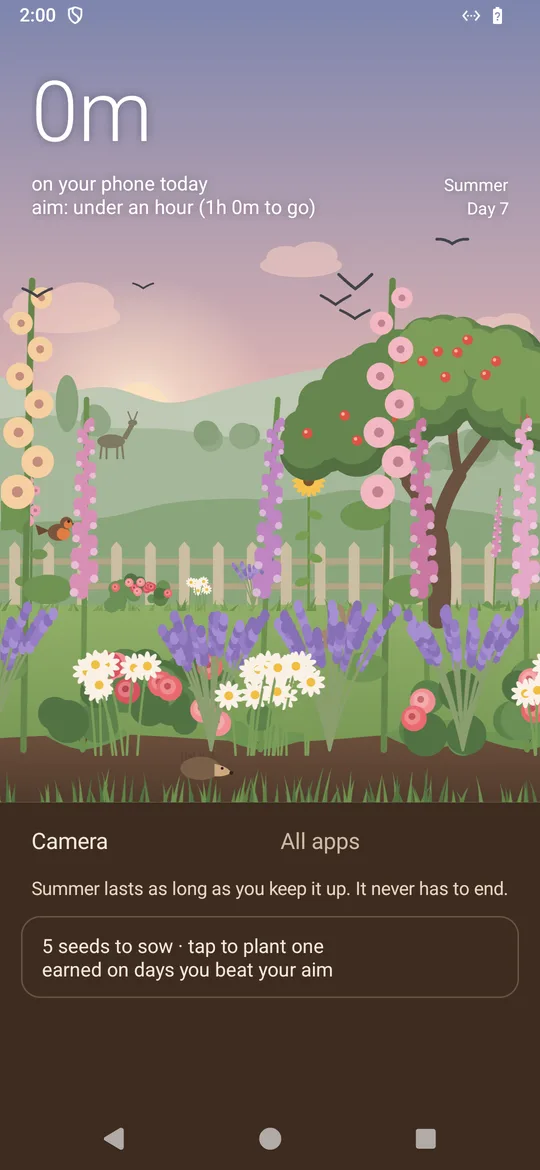
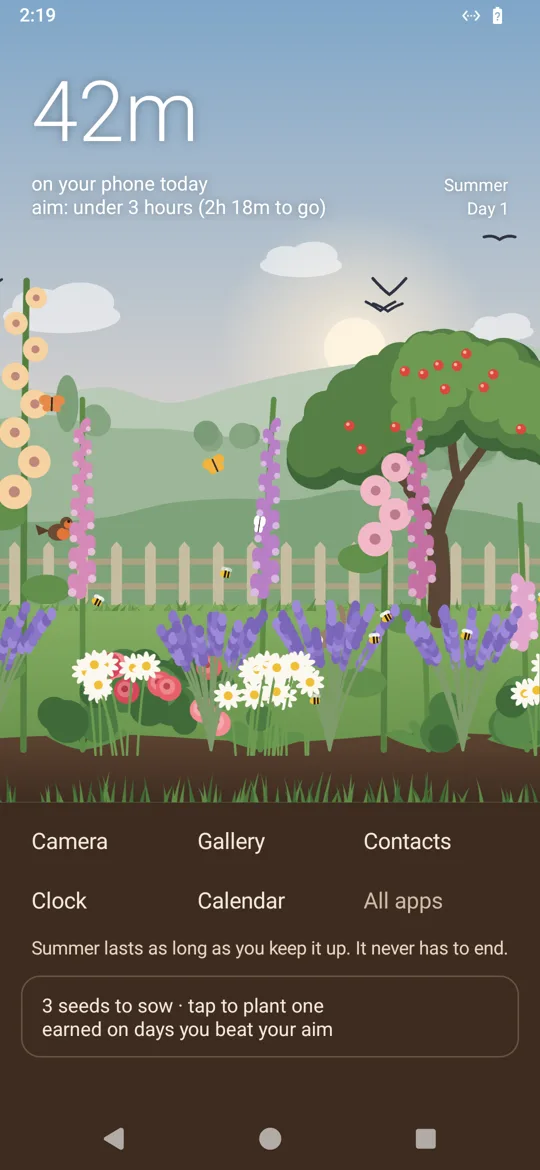
Glance pages: screenshots from the Play build, feature graphic for link previews
Claude-Session: https://claude.ai/code/session_013ninAo2S2Urgsh6HyVdxMR

diff --git a/glance/index.html b/glance/index.html
@@ -7,7 +7,7 @@
 <meta name="description" content="An Android home screen that puts today's screen time front and centre, over a garden that grows when you're on your phone less.">
 <meta property="og:title" content="Glance: Screen Time Garden">
 <meta property="og:description" content="An Android home screen that puts today's screen time front and centre, over a garden that grows when you're on your phone less.">
-<meta property="og:image" content="https://adam-clements.com/glance/screen-1.webp">
+<meta property="og:image" content="https://adam-clements.com/glance/feature.png">
 <link rel="icon" href="icon.png">
 <style>
   :root { --soil: #3e2c21; --soil-dark: #2c1f17; --leaf: #3f7d3a; --ink: #23301f; --muted: #5d6b58; --paper: #f6f8f2; --line: #dde5d6; }
@@ -44,7 +44,7 @@
 </header>
 <main>
   <div class="shots">
-    <img src="screen-1.webp" alt="The home screen: today's time over a garden in full summer at dawn" width="540" height="1170">
+    <img src="screen-1.webp" alt="The home screen: today's time over a garden in full summer" width="540" height="1170">
     <img src="screen-2.webp" alt="Opening a time-waster asks you to cut down a hollyhock first" width="540" height="1170">
     <img src="screen-3.webp" alt="A long day on the phone: the number turns red and a storm comes in" width="540" height="1170">
   </div>
